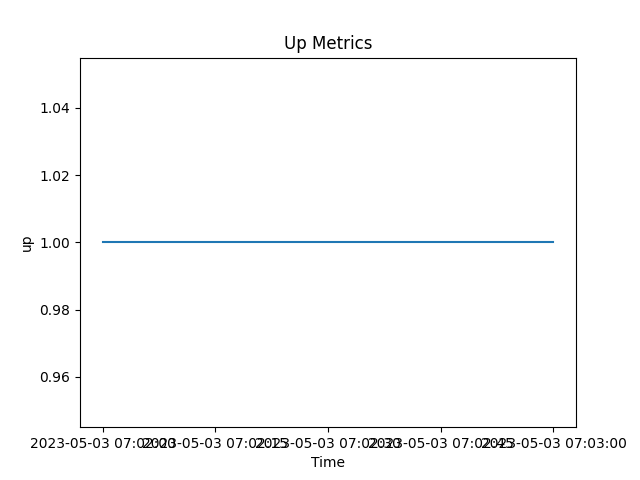
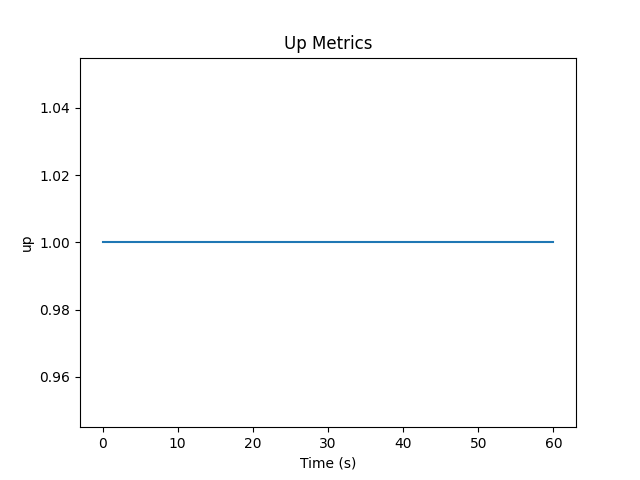
2023.05.03-07:17

Changed region(s): [[0.0312, 0.9062, 1.0, 1.0]]

diff --git a/misc/prometheus/main3.py b/misc/prometheus/main3.py
@@ -1,0 +1,46 @@
+import requests,csv,datetime,matplotlib.pyplot as plt,locale
+locale.setlocale(locale.LC_TIME, '')
+
+prometheus_url = 'http://localhost:9090/api/v1/query_range'
+query = 'up'
+end_time = datetime.datetime.now()
+start_time = end_time - datetime.timedelta(minutes=1)
+start_time_str = start_time.strftime('%Y-%m-%dT%H:%M:%S.%f')[:-3] + 'Z'
+end_time_str = end_time.strftime('%Y-%m-%dT%H:%M:%S.%f')[:-3] + 'Z'
+
+params = {
+    'query': query,
+    'start': start_time_str,
+    'end': end_time_str,
+    'step': '15s'
+}
+
+response = requests.get(prometheus_url, params=params)
+result = response.json()['data'].get('result', [])
+
+if not result:
+    print('No result found')
+else:
+    with open('up_metrics.csv', mode='w', newline='') as f:
+        writer = csv.writer(f)
+        writer.writerow(['time', 'value'])
+        for r in result[0]['values']:
+            timestamp = datetime.datetime.fromtimestamp(float(r[0]))
+            time = (timestamp - start_time).total_seconds()
+            value = r[1]
+            writer.writerow([time, value])
+
+    times = []
+    values = []
+    with open('up_metrics.csv', mode='r') as f:
+        reader = csv.reader(f)
+        next(reader)
+        for row in reader:
+            times.append(float(row[0]))
+            values.append(float(row[1]))
+
+    plt.plot(times, values)
+    plt.xlabel('Time (s)')
+    plt.ylabel('up')
+    plt.title('Up Metrics')
+    plt.savefig('up_metrics.png')
